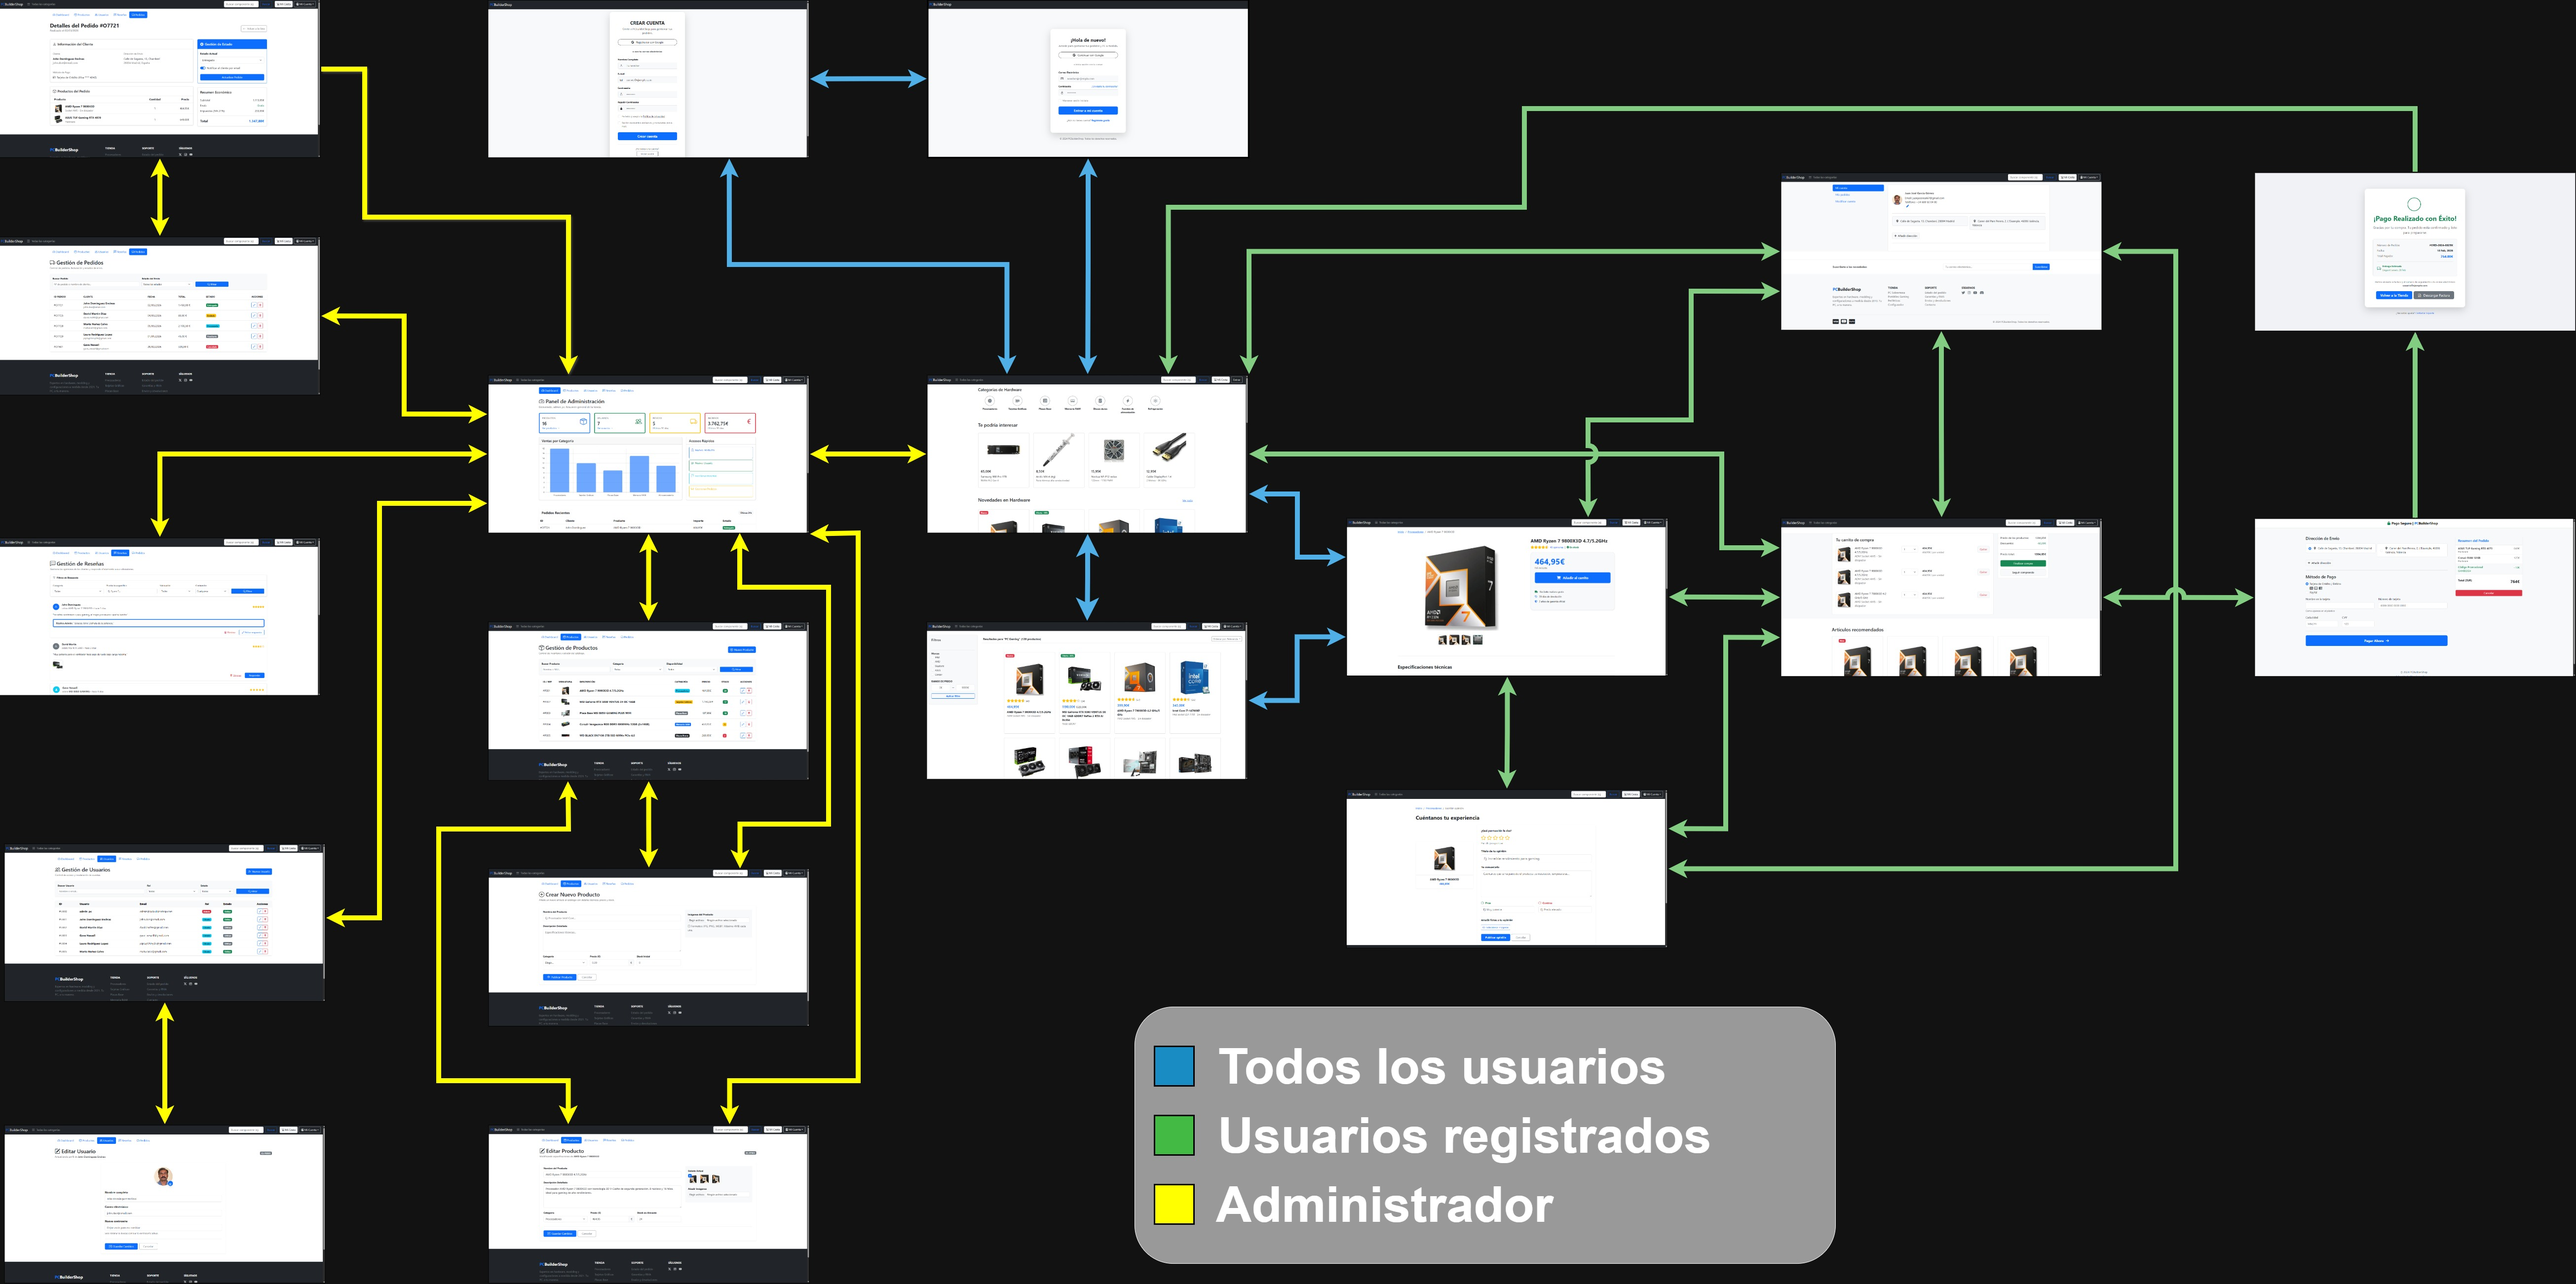
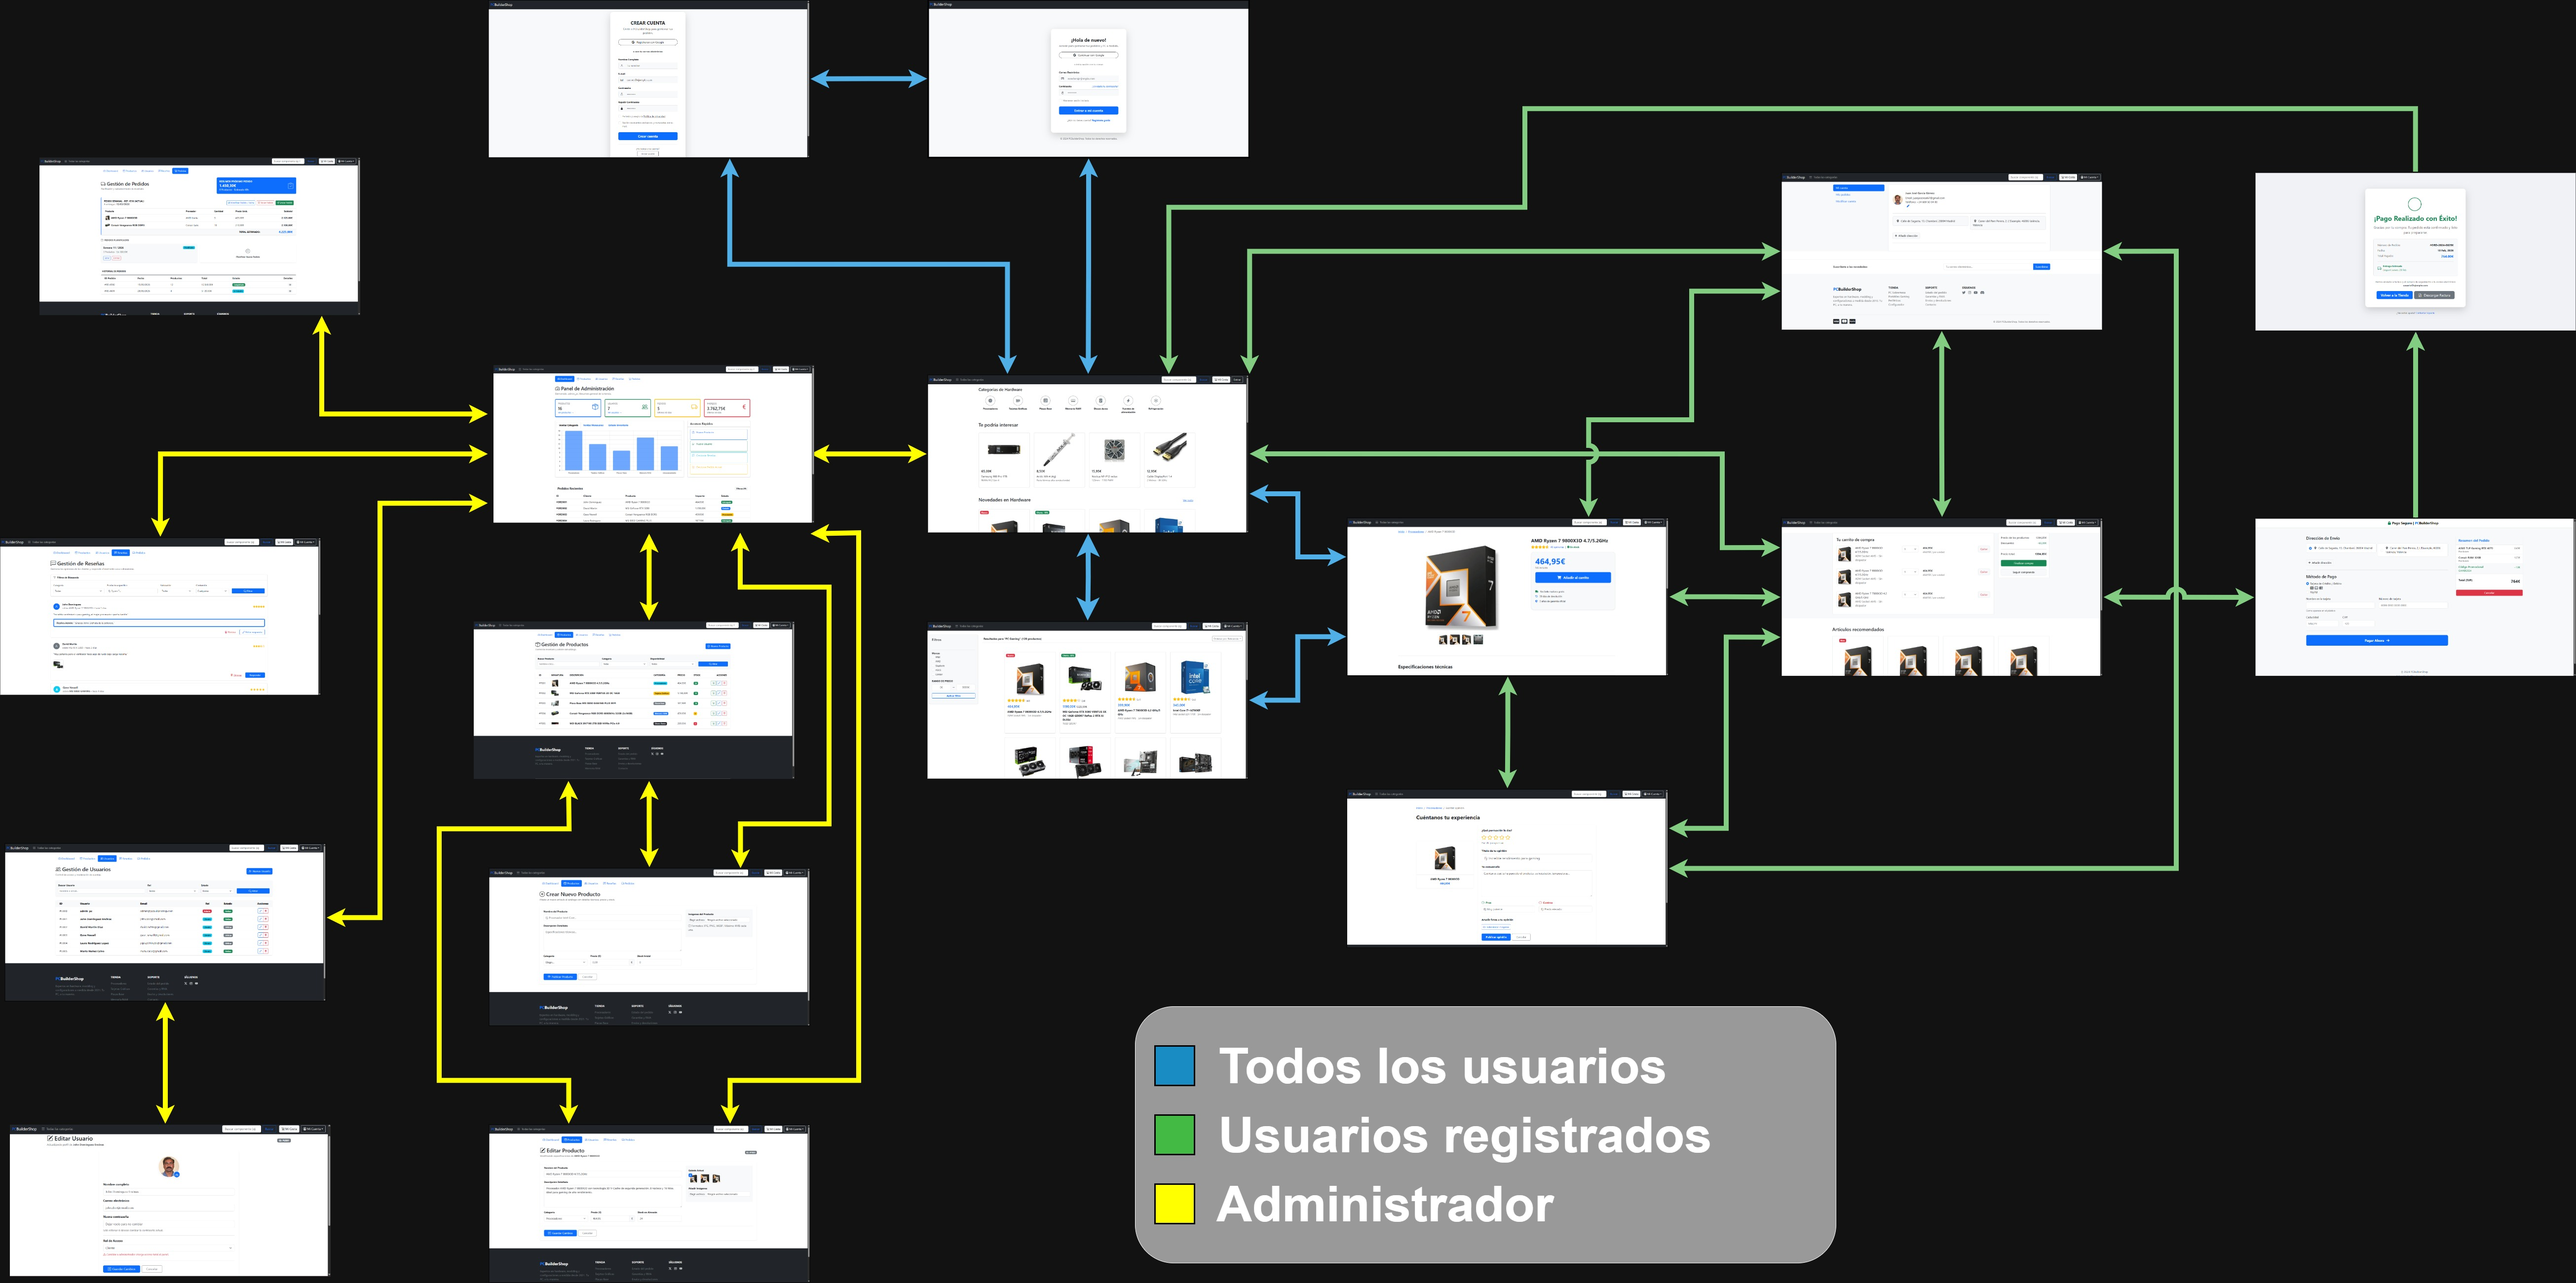
imagenes admin y diagramaNav actualizados

diff --git a/README.md b/README.md
@@ -160,12 +160,9 @@ Formulario para que los usuarios valoren los productos comprados. Incluye un sis
 ![Pagina de Lista Reseñas](assets/images/readme-images/admin-review-list.png)
 
 #### **17. Pagina de Lista Pedidos:**
-Incluye una barra de navegación superior para conmutar entre métricas y gestión de inventario, además de filtros por estado y un buscador de clientes.
+
 ![Pagina de Lista Pedidos](assets/images/readme-images/admin-order-list.png)
 
-#### **18. Pagina de Modificar Pedidos:**
-Permite actualizar el estado del envío entre Pendiente, Procesando, Enviado, Entregado, y Cancelado. Notifica al cliente automáticamente por correo si asi se indica y muestra tanto el desglose de productos como el resumen económico con impuestos incluidos
-![Pagina de Modificar Pedidos](assets/images/readme-images/admin-order-edit.png)
 
 
 ### **Participación de Miembros en la Práctica 1**
@@ -186,7 +183,7 @@ Permite actualizar el estado del envío entre Pendiente, Procesando, Enviado, En
 
 #### **Alumno 2 - David Díaz Gómez-Escalonilla**
 
-Principal responsable de las páginas de search-result, item-detail, create-review, user-list, user-edit, order-list, order-edit y los headers. También he ayudado con la estructura del index.html para que fuera similar a la de search-result.
+Principal responsable de las páginas de search-result, item-detail, create-review y los headers. También he ayudado con la estructura del index.html para que fuera similar a la de search-result, además de crear la implementacion inicial de las paginas user-list, user-edit, order-list, order-edit, las cuales han sido mejoradas posteriormente por otros compañeros.
 Creación y diseño del diagrama de navegación de README, junto con la inserción de las imagenes el resto de páginas junto con su descripción..
 
 | Nº    | Commits      | Files      |
